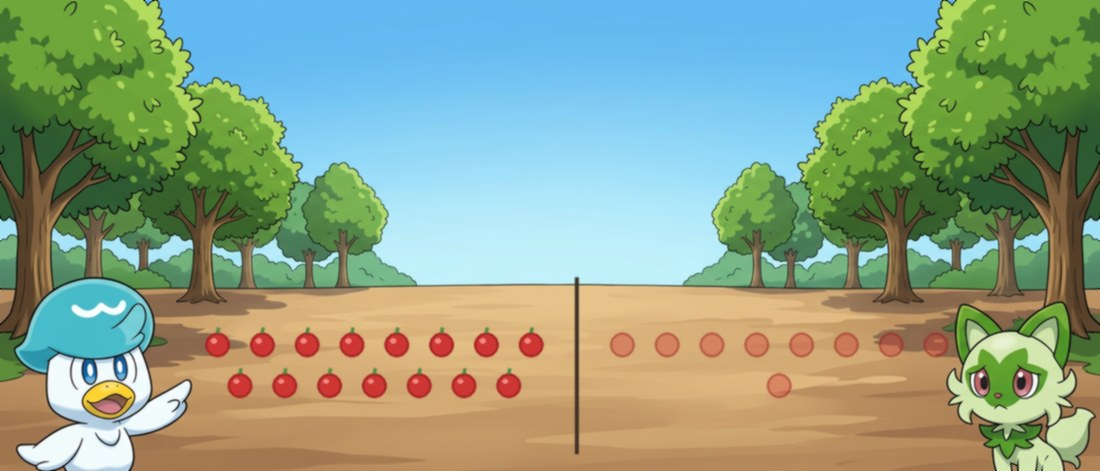
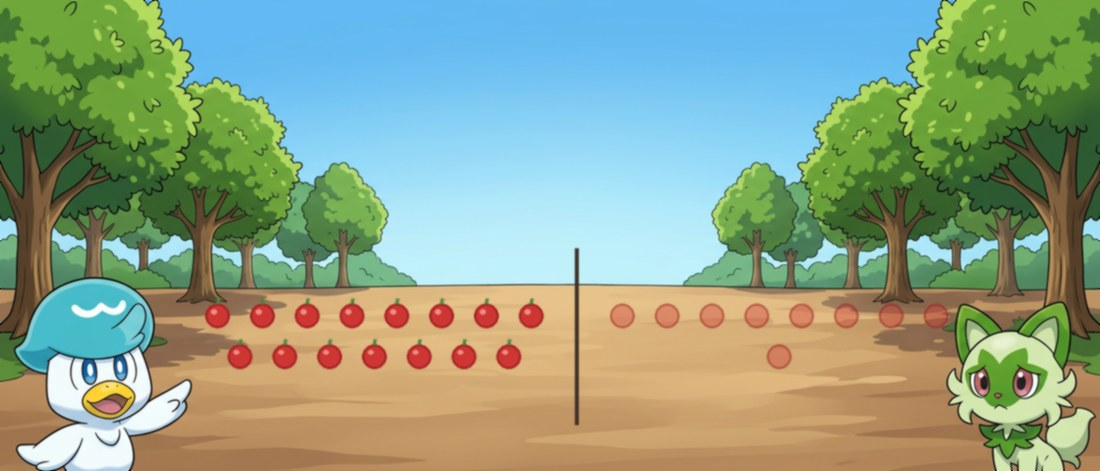
HH-167: close the review on the illustrated counting panels
The independent count check passed all fifteen; the block was staging.
Three scenes redrawn: L7 p1's hedge had grown countable fruit on the
one panel whose baskets are deliberately empty, L9 p1's fourth basket
had landed on Fuecoco, and L9 p5's pile hung above a horizon the model
painted at 72% rather than 60%. All three recounted afterwards.

Two things the review found in the mechanism. manga.css shows a
full-span panel in a 16/6 box and the art is 21:9, so object-fit hides
29px top and bottom — the inset had moved a bar model's bottom border
into that band. Full-span objects are now anchored above the crop line.
And --recomposite with --redraw-scene deleted a paid scene and then
skipped it; the pair is refused.

Also: the L5 p5 and L7 p5 specs said span=normal while draw_ch4_diagrams
has rendered them full (21:9) since the diagrams landed, so the page
showed the middle 628px of a 4:3 crop with the cast cut off. The specs
now say full; --link-only on prod writes the span to the rows.

diff --git a/tutor/management/commands/illustrate_ch4_diagrams.py b/tutor/management/commands/illustrate_ch4_diagrams.py
@@ -122,14 +122,16 @@ SCENES = {
         "paws clasped.",
         ["sprigatito", "pawmi"]),
 
-    ("pokemon-ch4-l7-bar-model-word-problems", 1): ("a berry orchard at dawn under open sky, low golden light; the flat ground surface "
-        "is a wide, smooth, level, bare dirt clearing, plain leafy fruit-free bushes and "
-        "trees far behind. A small EMPTY wooden hand-wagon waits "
-        "at the far LEFT edge; beside it the blue-headed duckling QUAXLY stands tall and "
-        "the grass kitten SPRIGATITO crouches. At the far RIGHT edge the red crocodile "
-        "FUECOCO stands calmly, the tiny electric mouse PAWMI bounces on its toes and the "
-        "plump piglet LECHONK dozes on the ground.",
-        ["quaxly", "sprigatito", "fuecoco", "pawmi", "lechonk"]),
+    ("pokemon-ch4-l7-bar-model-word-problems", 1): ("an orchard at dawn under open sky, low golden light; the flat ground surface "
+        "is a wide, smooth, level, bare dirt clearing. Every bush, hedge and tree behind "
+        "it is plain solid green leaf — NO dots, NO berries, NO fruit, NO flowers on any "
+        "of them, not even tiny ones. A small EMPTY wooden hand-wagon sits far back at "
+        "the LEFT edge. The blue-headed duckling QUAXLY and the grass kitten SPRIGATITO "
+        "are SMALL and tucked tight into the bottom-LEFT corner; the plump piglet LECHONK "
+        "dozes SMALL and tucked tight into the bottom-RIGHT corner. Nothing and nobody "
+        "else stands anywhere near the edges; the whole width between the two corners "
+        "is empty ground.",
+        ["quaxly", "sprigatito", "lechonk"]),
     ("pokemon-ch4-l7-bar-model-word-problems", 4): (DIRT + ". At the far LEFT edge the "
         "blue-headed duckling QUAXLY stands proudly with a stick in one wing; at the far "
         "RIGHT edge the grass kitten SPRIGATITO and the red crocodile FUECOCO watch.",
@@ -161,21 +163,22 @@ SCENES = {
         "duckling QUAXLY stands with one wing raised as if explaining.",
         ["sprigatito", "quaxly"]),
 
-    ("pokemon-ch4-l9-two-step", 1): ("a hilltop berry orchard at warm golden hour under open sky; the flat ground "
-        "surface is wide, smooth, level, bare short grass, with a big plain leafy "
-        "fruit-free tree at the far right edge whose branches stay low and out of the "
-        "top third. At the far LEFT edge the blue-headed "
-        "duckling QUAXLY stands looking toward the middle and the tiny electric mouse "
-        "PAWMI sits low beside it; at the far RIGHT edge the red crocodile FUECOCO "
-        "steadies a short wooden ladder against the tree while the plump piglet LECHONK "
-        "dozes at its foot.",
-        ["quaxly", "pawmi", "fuecoco", "lechonk"]),
+    ("pokemon-ch4-l9-two-step", 1): ("a hilltop orchard at warm golden hour under open sky; the flat ground "
+        "surface is wide, smooth, level, bare short grass; plain leafy fruit-free trees "
+        "sit far behind and low, none reaching the top third. The blue-headed duckling "
+        "QUAXLY and the tiny electric mouse PAWMI are SMALL and tucked tight into the "
+        "bottom-LEFT corner; the plump piglet LECHONK dozes SMALL and tucked tight into "
+        "the bottom-RIGHT corner. Nothing and nobody else stands anywhere near the "
+        "edges; the whole width between the two corners is empty ground.",
+        ["quaxly", "pawmi", "lechonk"]),
     ("pokemon-ch4-l9-two-step", 4): (DIRT + ". At the far LEFT edge the red crocodile "
         "FUECOCO watches the middle; at the far RIGHT edge the grass kitten SPRIGATITO "
         "stands with both paws hidden behind its back, ears flat, looking away "
         "innocently and guiltily.",
         ["fuecoco", "sprigatito"]),
-    ("pokemon-ch4-l9-two-step", 5): (DIRT + ". At the far LEFT edge the tiny electric "
+    ("pokemon-ch4-l9-two-step", 5): (DIRT + "; the bare dirt is GENEROUS — it fills the "
+        "bottom HALF of the frame, its far edge no higher than halfway down, and the "
+        "trees are pushed back small above it. At the far LEFT edge the tiny electric "
         "mouse PAWMI bounces with happy sparks; at the far RIGHT edge the blue-headed "
         "duckling QUAXLY watches approvingly.",
         ["pawmi", "quaxly"]),
@@ -234,17 +237,29 @@ def render_layer(build, span):
 #: corners; pulled in to four-fifths it clears them and is still large.
 INSET = {"full": 0.80, "wide": 0.90, "normal": 1.0, "tall": 1.0}
 
+#: manga.css shows a full-span panel in a 16/6 box and the art is 21:9, so
+#: `object-fit: cover` hides the top and bottom 29px. The objects are anchored
+#: above that line so a bar model's bottom border is never the part that is
+#: cropped. (Wide panels lose 69px each side the same way; their inset leaves
+#: too little room to lift, and only basket shadows fall in the hidden band.)
+CSS_HIDDEN_BOTTOM = {"full": 29}
 
-def composite(scene_path, build, span):
+#: Per-panel overrides of INSET. Six baskets across a wide panel reach the
+#: corners even at nine-tenths, and land on whoever is standing there.
+INSET_OVERRIDE = {("pokemon-ch4-l7-bar-model-word-problems", 1): 0.78}
+
+
+def composite(scene_path, build, span, key=None):
     w, h = dg.SPAN_SIZE[span]
     scene = Image.open(scene_path).convert("RGB").resize((w, h), Image.LANCZOS)
     layer = render_layer(build, span)
-    factor = INSET.get(span, 1.0)
+    factor = INSET_OVERRIDE.get(key, INSET.get(span, 1.0))
     if factor < 1.0:
         lw, lh = round(w * factor), round(h * factor)
         layer = layer.resize((lw, lh), Image.LANCZOS)
-        # Anchored bottom-centre so the objects stay standing on the ground.
-        offset = ((w - lw) // 2, h - lh)
+        # Anchored bottom-centre so the objects stay standing on the ground,
+        # lifted clear of the band the page's CSS crops away.
+        offset = ((w - lw) // 2, h - lh - CSS_HIDDEN_BOTTOM.get(span, 0))
     else:
         offset = (0, 0)
     scene.paste(layer, offset, layer)
@@ -289,6 +304,9 @@ class Command(BaseCommand):
             return
         if not chosen:
             raise CommandError("Nothing selected.")
+        if options["recomposite"] and options["redraw_scene"]:
+            raise CommandError("--recomposite reuses cached scenes and "
+                               "--redraw-scene deletes them; pick one.")
         if not options["recomposite"] and not imagegen.is_configured():
             raise CommandError("REPLICATE_API_TOKEN is not set; use --recomposite "
                                "to rebuild from cached scenes only.")
@@ -306,7 +324,7 @@ class Command(BaseCommand):
                 self._paint_scene(slug, order, span, scene_path)
                 self._throttle(options["delay"])
             out = os.path.join(settings.BASE_DIR, "static", "manga", slug, f"p{order}.jpg")
-            composite(scene_path, build, span).save(
+            composite(scene_path, build, span, key=(slug, order)).save(
                 out, format="JPEG", quality=88, optimize=True, progressive=True)
             self.stdout.write(f"  L{lesson} p{order} -- {note}")
         self.stdout.write(self.style.SUCCESS(f"Illustrated {len(chosen)} panels."))

diff --git a/tutor/management/commands/generate_pokemon_ch4_l5_remainders.py b/tutor/management/commands/generate_pokemon_ch4_l5_remainders.py
@@ -108,7 +108,7 @@ PANELS = [
         ],
     },
     {
-        "order": 5, "span": MangaPanel.SPAN_NORMAL,
+        "order": 5, "span": MangaPanel.SPAN_FULL,   # drawn full: see draw_ch4_diagrams
         "alt": "On the next cartload Pawmi has stopped after only two baskets and its tin cup is heaped and overflowing with five leftover berries.",
         "scene": "A fresh cartload of berries has arrived behind the counter in the background. On the wooden "
                  "packing counter, which is wider than it is tall, sit EXACTLY TWO round baskets side by side "

diff --git a/tutor/management/commands/generate_pokemon_ch4_l7_bar_model_word_problems.py b/tutor/management/commands/generate_pokemon_ch4_l7_bar_model_word_problems.py
@@ -90,7 +90,7 @@ PANELS = [
         ],
     },
     {
-        "order": 5, "span": MangaPanel.SPAN_NORMAL,
+        "order": 5, "span": MangaPanel.SPAN_FULL,   # drawn full: see draw_ch4_diagrams
         "alt": "Sprigatito pounces at a butterfly, knocks over the row of full baskets, and all the berries roll into one big heap.",
         "scene": "Chaos, comic and affectionate. SPRIGATITO the grass kitten is mid-pounce after a fluttering "
                  "butterfly and has clipped the row of full wicker baskets, which tumble sideways in the lower "
